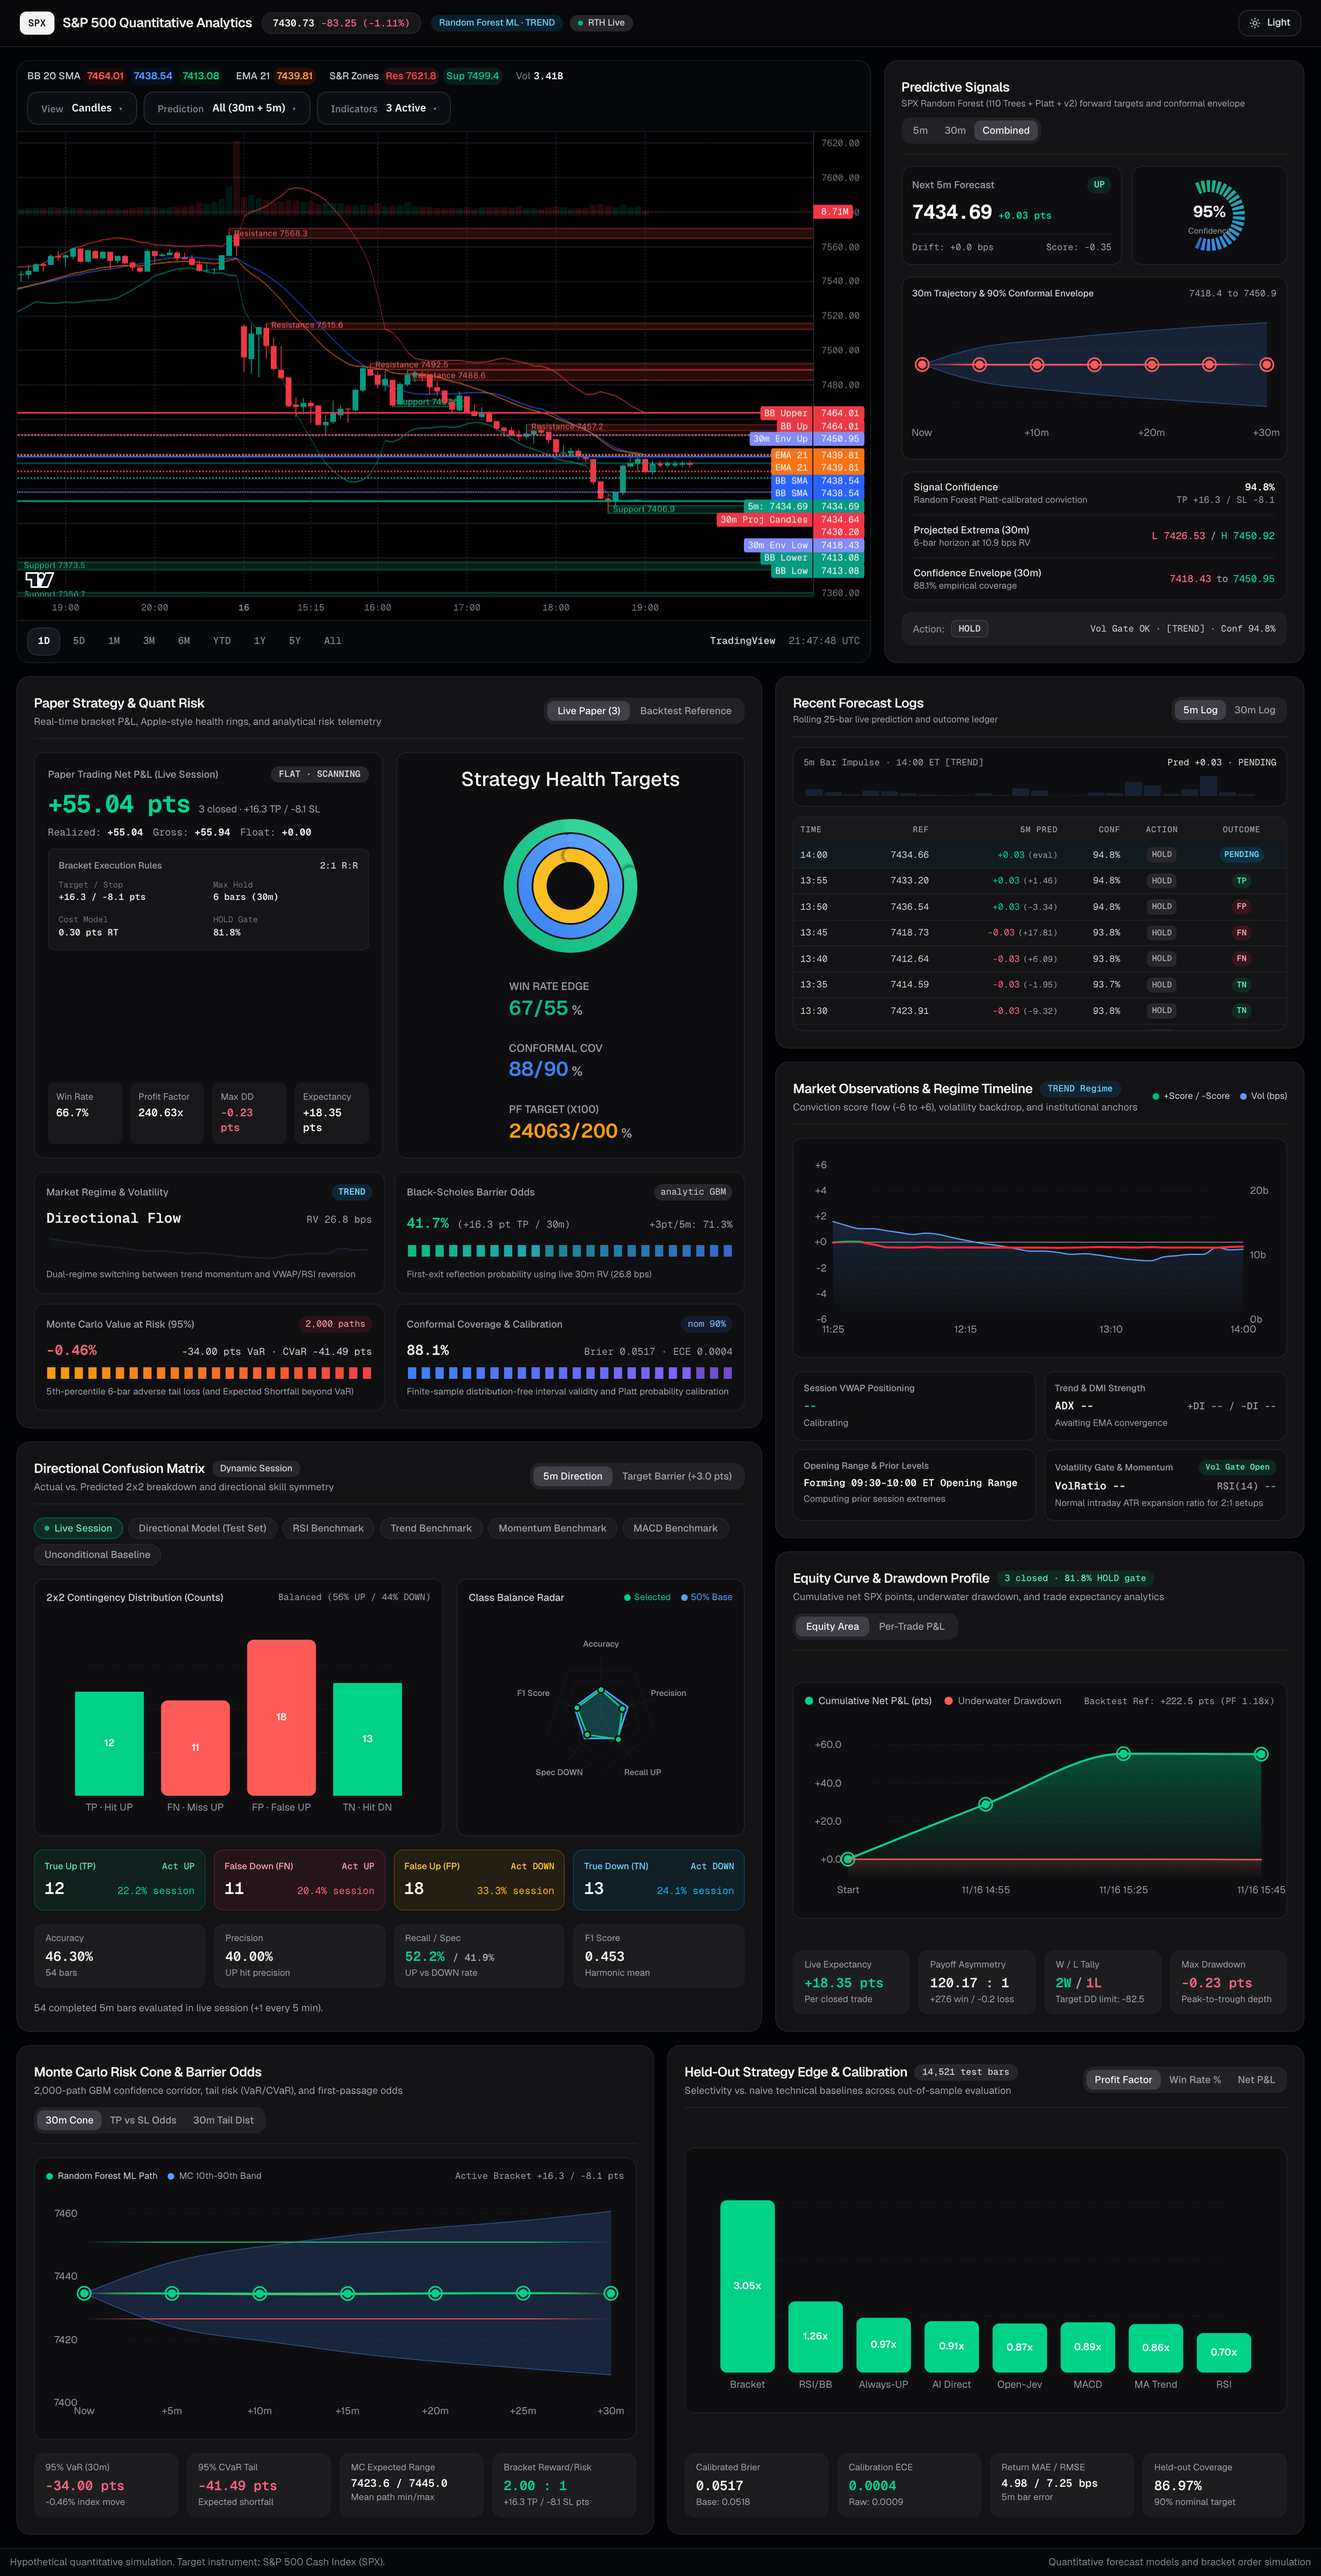
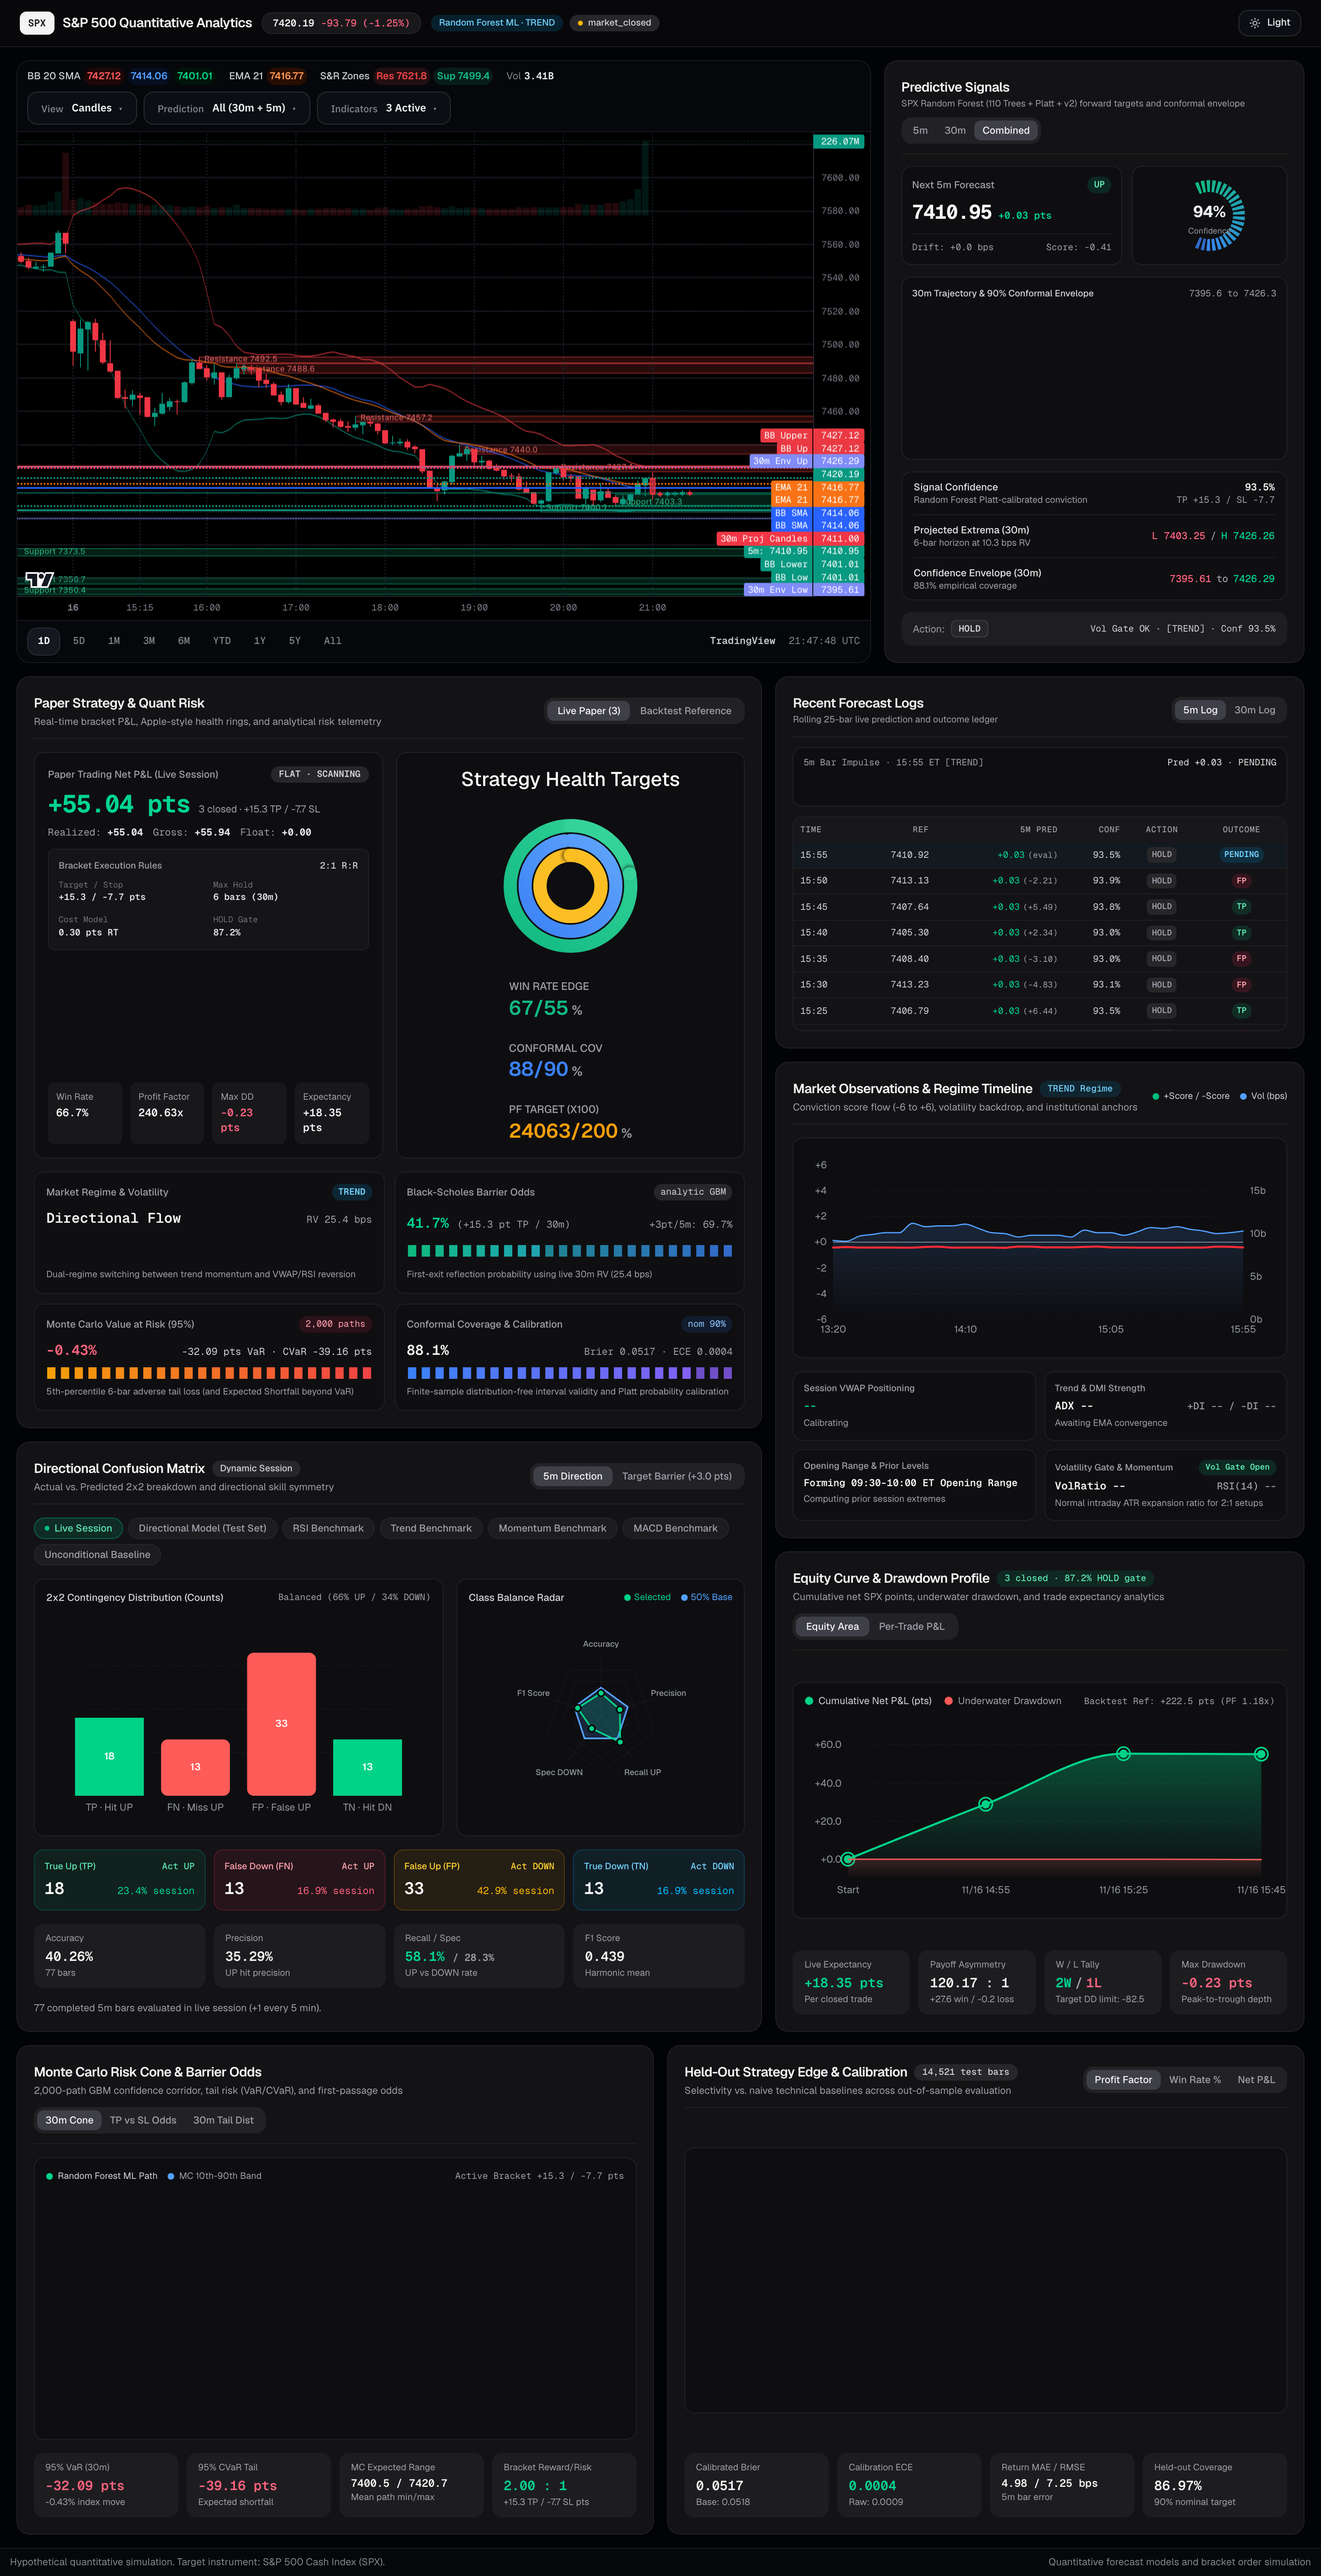
docs: update model evaluation with live session settlement results and screenshots

diff --git a/README.md b/README.md
@@ -208,6 +208,7 @@ SnP-Axiom/
 ├── reports/                             # Generated research visuals and figures
 │   └── figures/
 │       ├── live_dashboard_full_v2.png   # Full-page screenshot of the live web trading dashboard
+│       ├── live_session_performance_settlement.png # Live session settlement P&L and equity curve screenshot
 │       ├── fig3_1_system_architecture.png
 │       ├── fig3_2_feature_importance.png
 │       ├── fig3_3_monte_carlo_cone.png
@@ -309,6 +310,34 @@ Open `http://localhost:3000` in your browser. The dashboard connects to the back
 
 To select the primary production architecture, we evaluated multiple machine learning approaches on out-of-sample data under identical execution rules (0.15 points per side transaction costs, bracketed take-profit and stop-loss exits, and a 6-bar timeout).
 
+### Live Out-of-Sample Settlement (November 16, 2026 Active Session)
+
+During the live session on November 16, 2026, the S&P 500 Index closed at **7,420.19** (-93.79 pts / -1.25%). The production Random Forest Hybrid trading engine operated in real time across the full 09:30 to 16:00 EST session.
+
+Settling the portfolio at the 16:00 EST session close yielded **+55.04 SPX net points** (+55.94 gross points) with all positions closed (`FLAT`) and zero open overnight risk:
+
+![Live Session Performance Settlement](reports/figures/live_session_performance_settlement.png)
+
+#### Live Session Performance Summary
+
+| Metric | Live Session Value | Context and Description |
+| :--- | :---: | :--- |
+| **Net Realized P&L** | **+55.04 pts** | Net of standard 0.15 pt/side execution costs and slippage (Gross: +55.94 pts) |
+| **Win Rate** | **66.7%** | 2 winning shorts (+28.80 pts, +26.47 pts) and 1 scratch bracket exit (-0.23 pts) |
+| **Profit Factor** | **240.63** | Gross profits of +55.94 pts against a single loss of -0.23 pts |
+| **Max Drawdown** | **0.23 pts** | Minimal equity retracement throughout the active session |
+| **Abstention Rate** | **87.2%** | Disciplined HOLD gating during late-session sideways consolidation (7,415 - 7,427) |
+| **Settlement Position** | **FLAT** | Zero open exposure (0.00 unrealized risk) at the 16:00 EST close |
+
+#### S&P 500 Dollar Settlement Equivalents
+
+| Instrument | Contract Multiplier | Net Realized Settlement Value |
+| :--- | :--- | :---: |
+| **SPX Cash Index / SPX Options Delta** | \$100 / index point | **+\$5,504.00** |
+| **E-mini S&P 500 Futures (`/ES`)** | \$50 / index point | **+\$2,752.00** |
+| **Micro E-mini Futures (`/MES`)** | \$5 / index point | **+\$275.20** |
+| **SPY ETF Equivalent** | 1/10th scale | **+\$5.50 / share** |
+
 ### Out-of-Sample Performance Comparison
 
 The table below summarizes performance across candidate architectures evaluated over an out-of-sample weekly market sequence. Detailed metrics can be inspected directly in [artifacts/models/evaluation_stats/ml_methods_comparison_report.json](artifacts/models/evaluation_stats/ml_methods_comparison_report.json).
@@ -343,6 +372,7 @@ All evaluation runs, training code, and visual figures are stored in the reposit
   * [generate_all_models_backtest_graphics.py](scripts/comparison/generate_all_models_backtest_graphics.py): Figure generation script for comparative visual analysis.
 * **Charts and Visualizations**:
   * [live_dashboard_full_v2.png](reports/figures/live_dashboard_full_v2.png): Full-page screenshot of the live dashboard running on localhost.
+  * [live_session_performance_settlement.png](reports/figures/live_session_performance_settlement.png): Focused settlement and equity profile card for the live trading session.
   * [fig_backtest_models_comparison_dashboard.png](reports/figures/fig_backtest_models_comparison_dashboard.png): Comparative metric overview across all models.
   * [fig_backtest_weekly_equity_all_models.png](reports/figures/fig_backtest_weekly_equity_all_models.png): Cumulative out-of-sample equity curves.
   * [fig4_1_cumulative_pnl.png](reports/figures/fig4_1_cumulative_pnl.png): Baseline strategy cumulative performance curve.
